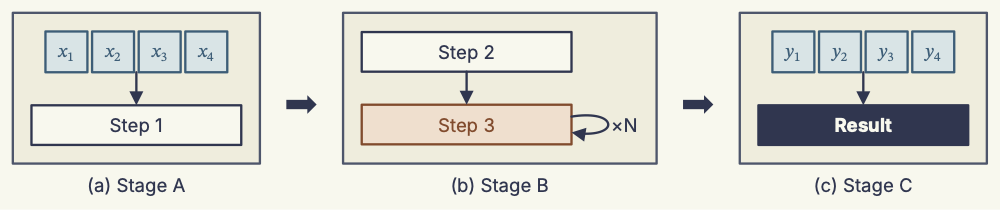
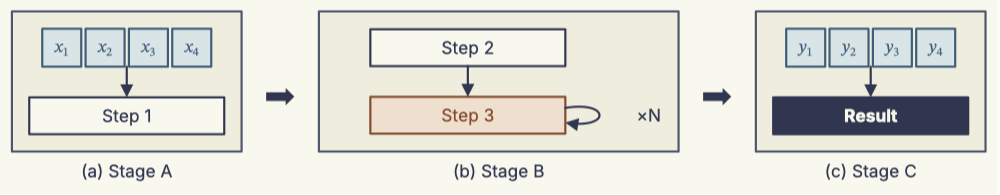
fix(layout): reserve room for curved self-loops in the structured layout (#557)
* fix(layout): reserve room for curved self-loops in the structured layout
* test(layout): cover loops on every side and fix the set check for loo…

diff --git a/src/layout/structured/self-loop-space.test.ts b/src/layout/structured/self-loop-space.test.ts
@@ -1,0 +1,233 @@
+/**
+ * Room for curved self-loops (#544) and the top padding of groups with a title
+ * above the border: a loop's bulge and label are part of its node's footprint,
+ * so neighbours and frames are placed clear of it.
+ */
+
+import { describe, expect, test } from "bun:test";
+import { stringify } from "yaml";
+import { layoutStructuredFigure } from "../index";
+import type { LayoutIR, Rect } from "../ir";
+import type { Cubic } from "../route/cubic";
+import { sampleCubic } from "../route/cubic";
+import type { TextMeasurer } from "../text";
+
+const FAKE: TextMeasurer = {
+  lineWidth: (text, _font, size) => ([...text].length * size) / 2,
+  verticalMetrics: (_font, size) => ({ ascent: 0.8 * size, descent: 0.2 * size }),
+};
+
+function lay(doc: object): LayoutIR {
+  const result = layoutStructuredFigure(stringify(doc), { measurer: FAKE });
+  if (!result.ok) throw new Error(JSON.stringify(result.diagnostics, null, 2));
+  return result.value.layout;
+}
+
+function rect(layout: LayoutIR, id: string): Rect {
+  const found =
+    layout.nodes.find((n) => n.key === `n:${id}`) ?? layout.groups.find((g) => g.key === `g:${id}`);
+  if (found === undefined) throw new Error(`no ${id}`);
+  return found.rect;
+}
+
+const box = (id: string) => ({ id, component: "box", label: id.toUpperCase() });
+const doc = (arrange: object, extra: object) => ({
+  version: 1,
+  figure: { id: "t", theme: "paper", layout: { arrange } },
+  ...extra,
+});
+const overlaps = (a: Rect, b: Rect) =>
+  a.x < b.x + b.width && b.x < a.x + a.width && a.y < b.y + b.height && b.y < a.y + a.height;
+
+/** The bounds of the curve of the first routed edge, sampled, and its label. */
+function loopBounds(layout: LayoutIR): Rect {
+  const edge = layout.edges.find((e) => e.route !== undefined);
+  const points = sampleCubic((edge?.route?.points ?? []) as Cubic);
+  const label = edge?.route?.label?.box;
+  const xs = [...points.map((p) => p.x), ...(label ? [label.x, label.x + label.width] : [])];
+  const ys = [...points.map((p) => p.y), ...(label ? [label.y, label.y + label.height] : [])];
+  return {
+    x: Math.min(...xs),
+    y: Math.min(...ys),
+    width: Math.max(...xs) - Math.min(...xs),
+    height: Math.max(...ys) - Math.min(...ys),
+  };
+}
+
+const inside = (r: Rect, frame: Rect) =>
+  r.x >= frame.x - 0.01 &&
+  r.y >= frame.y - 0.01 &&
+  r.x + r.width <= frame.x + frame.width + 0.01 &&
+  r.y + r.height <= frame.y + frame.height + 0.01;
+
+describe("a curved self-loop takes room", () => {
+  const loop = { from: "b", to: "b", route: "curve", label: "retry" };
+
+  test("keeps the node above it clear of the loop and its label", () => {
+    const layout = lay(
+      doc(
+        { stack: { gap: "2pt", items: ["a", "b"] } },
+        { nodes: [box("a"), box("b")], edges: [loop] },
+      ),
+    );
+    expect(overlaps(loopBounds(layout), rect(layout, "a"))).toBe(false);
+  });
+
+  test("opens the gap by the loop's height, and not on a node without a loop", () => {
+    const base = { nodes: [box("a"), box("b")] };
+    const arrange = { stack: { gap: "2pt", items: ["a", "b"] } };
+    const plain = lay(doc(arrange, base));
+    const looped = lay(doc(arrange, { ...base, edges: [loop] }));
+    const gap = (l: LayoutIR) => rect(l, "b").y - (rect(l, "a").y + rect(l, "a").height);
+    expect(gap(looped)).toBeGreaterThan(gap(plain));
+    expect(rect(looped, "b").height).toBe(rect(plain, "b").height);
+  });
+
+  test("keeps the loop inside the frame of its group", () => {
+    const layout = lay(
+      doc(
+        { row: { items: ["g"] } },
+        {
+          groups: [{ id: "g", arrange: { row: { items: ["b", "c"] } } }],
+          nodes: [box("b"), box("c")],
+          edges: [loop],
+        },
+      ),
+    );
+    const bounds = loopBounds(layout);
+    const frame = rect(layout, "g");
+    expect(bounds.y).toBeGreaterThanOrEqual(frame.y);
+    expect(bounds.x).toBeGreaterThanOrEqual(frame.x);
+  });
+});
+
+describe("loops on every side clear neighbours and frames", () => {
+  const sides = ["north", "east", "south", "west"] as const;
+  const loop = (side: string) => ({
+    from: "b",
+    to: "b",
+    route: "curve",
+    label: "retry",
+    fromAnchor: `${side}:0.7`,
+    toAnchor: `${side}:0.3`,
+  });
+  const nodesOf = (...ids: string[]) => ids.map(box);
+  const nodes = nodesOf("n", "s", "w", "e", "b");
+  // b in the middle of a cross, so every side has a neighbour.
+  const cross = {
+    stack: {
+      gap: "2pt",
+      items: [
+        { row: { items: ["n"] } },
+        { row: { gap: "2pt", items: ["w", "b", "e"] } },
+        { row: { items: ["s"] } },
+      ],
+    },
+  };
+
+  for (const side of sides) {
+    test(`${side}: clear of every neighbour`, () => {
+      const layout = lay(doc(cross, { nodes, edges: [loop(side)] }));
+      const bounds = loopBounds(layout);
+      for (const id of ["n", "s", "w", "e"]) expect(overlaps(bounds, rect(layout, id))).toBe(false);
+    });
+
+    test(`${side}: inside nested frames, clear of a sibling`, () => {
+      const layout = lay(
+        doc(
+          { row: { gap: "2pt", items: ["outer", "n"] } },
+          {
+            groups: [
+              {
+                id: "outer",
+                label: "Outer",
+                labelAt: "above-left",
+                arrange: { row: { items: ["inner", "e"] } },
+              },
+              { id: "inner", label: "Inner", arrange: { row: { items: ["b", "w"] } } },
+            ],
+            nodes: nodesOf("b", "w", "e", "n"),
+            edges: [loop(side)],
+          },
+        ),
+      );
+      const bounds = loopBounds(layout);
+      expect(inside(bounds, rect(layout, "inner"))).toBe(true);
+      expect(inside(bounds, rect(layout, "outer"))).toBe(true);
+      for (const id of ["w", "e", "n"]) expect(overlaps(bounds, rect(layout, id))).toBe(false);
+    });
+
+    test(`${side}: in a place box, inside its frame and clear of the node next to it`, () => {
+      const layout = lay(
+        doc(
+          {
+            place: {
+              unit: "1pt",
+              items: [
+                { item: "g", at: [0, 0] },
+                { item: "w", at: [70, 0] },
+              ],
+            },
+          },
+          {
+            groups: [{ id: "g", label: "G", labelAt: "above", arrange: { row: { items: ["b"] } } }],
+            nodes: nodesOf("b", "w"),
+            edges: [loop(side)],
+          },
+        ),
+      );
+      const bounds = loopBounds(layout);
+      expect(inside(bounds, rect(layout, "g"))).toBe(true);
+      expect(overlaps(bounds, rect(layout, "w"))).toBe(false);
+    });
+  }
+});
+
+describe("a group with a title above the border", () => {
+  const single = (labelAt?: string) => {
+    const l = lay(
+      doc(
+        { row: { items: ["g"] } },
+        {
+          groups: [
+            {
+              id: "g",
+              ...(labelAt && { label: "T", labelAt }),
+              arrange: { row: { items: ["a"] } },
+            },
+          ],
+          nodes: [box("a")],
+        },
+      ),
+    );
+    return rect(l, "a").y - rect(l, "g").y;
+  };
+  const nested = (labelAt?: string) => {
+    const group = (id: string, items: string[]) => ({
+      id,
+      ...(labelAt && { label: id, labelAt }),
+      arrange: { row: { items } },
+    });
+    const l = lay(
+      doc(
+        { row: { items: ["o"] } },
+        { groups: [group("o", ["i"]), group("i", ["a"])], nodes: [box("a")] },
+      ),
+    );
+    // The inner title hangs in the outer frame's padding; both frames' own tops are compared.
+    return { inner: rect(l, "a").y - rect(l, "i").y, outer: rect(l, "i").y - rect(l, "o").y };
+  };
+
+  test("has the top padding of an unlabelled group", () => {
+    for (const at of ["above-left", "above", "above-right"])
+      expect(single(at)).toBeCloseTo(single(undefined), 6);
+    // Inside the border the title does take a row.
+    expect(single("top-left")).toBeGreaterThan(single(undefined));
+  });
+
+  test("keeps the top padding of an unlabelled group when nested", () => {
+    const plain = nested(undefined);
+    for (const at of ["above-left", "above", "above-right"])
+      expect(nested(at).inner).toBeCloseTo(plain.inner, 6);
+  });
+});

diff --git a/src/render/self-loop.integration.test.ts b/src/render/self-loop.integration.test.ts
@@ -4,7 +4,7 @@
  */
 import { expect, test } from "bun:test";
 import { stringify } from "yaml";
-import type { Point } from "../layout/ir";
+import type { Point, Rect } from "../layout/ir";
 import { checkRoutes } from "../layout/route/check";
 import type { Cubic } from "../layout/route/cubic";
 import { lintRenderedFigure } from "../lint";
@@ -191,17 +191,37 @@ test("a loop that overflows the content moves the sets with the nodes", async ()
     });
   const plain = await render(text(false));
   const looped = await render(text(true));
-  const nodeA = (r: typeof plain) => r.layout.nodes.find((n) => n.key === "n:a")?.rect;
-  const dx = (nodeA(looped)?.x ?? 0) - (nodeA(plain)?.x ?? 0);
-  const dy = (nodeA(looped)?.y ?? 0) - (nodeA(plain)?.y ?? 0);
-  expect(dx !== 0 || dy !== 0).toBe(true); // the loop did overflow and move everything
+  const members: Record<string, string[]> = { s: ["a"], t: ["b"], u: ["a", "b"], v: ["a"] };
+  const nodeRect = (r: typeof plain, id: string) =>
+    r.layout.nodes.find((n) => n.key === `n:${id}`)?.rect as Rect;
+  const shift = (id: string) => ({
+    dx: nodeRect(looped, id).x - nodeRect(plain, id).x,
+    dy: nodeRect(looped, id).y - nodeRect(plain, id).y,
+  });
+  const a = shift("a");
+  expect(a.dx !== 0 || a.dy !== 0).toBe(true); // the loop did overflow and move things
   for (const set of plain.layout.sets ?? []) {
     const moved = looped.layout.sets?.find((s) => s.id === set.id);
-    expect(moved?.rect.x).toBeCloseTo(set.rect.x + dx, 1);
-    expect(moved?.rect.y).toBeCloseTo(set.rect.y + dy, 1);
-    if (set.label !== undefined) {
-      expect(moved?.label?.anchor.x).toBeCloseTo(set.label.anchor.x + dx, 1);
-      expect(moved?.label?.anchor.y).toBeCloseTo(set.label.anchor.y + dy, 1);
+    const own = members[set.id] ?? [];
+    if (own.length === 1) {
+      // A set with one member moves with that member, whichever way it went.
+      const { dx, dy } = shift(own[0] as string);
+      expect(moved?.rect.x).toBeCloseTo(set.rect.x + dx, 1);
+      expect(moved?.rect.y).toBeCloseTo(set.rect.y + dy, 1);
+      if (set.label !== undefined) {
+        expect(moved?.label?.anchor.x).toBeCloseTo(set.label.anchor.x + dx, 1);
+        expect(moved?.label?.anchor.y).toBeCloseTo(set.label.anchor.y + dy, 1);
+      }
+    } else {
+      // A shared set is fitted again: it still encloses all its members.
+      const r = moved?.rect as Rect;
+      for (const id of own) {
+        const m = nodeRect(looped, id);
+        expect(r.x).toBeLessThanOrEqual(m.x + 0.01);
+        expect(r.y).toBeLessThanOrEqual(m.y + 0.01);
+        expect(r.x + r.width).toBeGreaterThanOrEqual(m.x + m.width - 0.01);
+        expect(r.y + r.height).toBeGreaterThanOrEqual(m.y + m.height - 0.01);
+      }
     }
   }
 });

diff --git a/src/layout/structured/engine.ts b/src/layout/structured/engine.ts
@@ -72,7 +72,10 @@ import {
   type TextLayout,
   type TextMetrics,
 } from "../ir";
+import { sampleCubic } from "../route/cubic";
+import { curveLabel, loopLabelEdge, selfLoopAnchors, selfLoopPoints } from "../route/curve";
 import { arrowheadPaddingDeficits, type SidePadding } from "../route/padding";
+import { anchorPoint, isJunction } from "../route/ports";
 import { captionGap, fontSetMeasurer, measureText, type TextMeasurer } from "../text";
 import {
   type AlignLimits,
@@ -1097,7 +1100,50 @@ class StructuredLayout {
    */
   #decorations(node: NodeIR, body: Rect): Rect[] {
     const caption = this.#captionRect(node, body);
-    return [...decorationRects(node, body), ...(caption === undefined ? [] : [caption])];
+    return [
+      ...decorationRects(node, body),
+      ...(caption === undefined ? [] : [caption]),
+      ...this.#loopRects(node, body),
+    ];
+  }
+
+  /**
+   * The room a curved self-loop (#544, `route: curve` from a node to itself,
+   * #519) takes outside its node, with its label: the bounds of the loop as the
+   * router draws it from the body's side anchors, so a neighbour or a frame is
+   * placed clear of it like of a badge.
+   */
+  #loopRects(node: NodeIR, body: Rect): Rect[] {
+    if (isJunction(node)) return [];
+    const rects: Rect[] = [];
+    for (const edge of this.#ir.edges) {
+      if (edge.route !== "curve" || edge.from !== node.key || edge.to !== node.key) continue;
+      const anchors = selfLoopAnchors(edge);
+      if (typeof anchors === "string") continue; // the router reports it
+      const a = anchorPoint(body, anchors.from);
+      const b = anchorPoint(body, anchors.to);
+      if (a.x === b.x && a.y === b.y) continue;
+      const points = selfLoopPoints(edge, a, b, anchors.from.side);
+      const samples = sampleCubic(points);
+      let x0 = Number.POSITIVE_INFINITY;
+      let y0 = Number.POSITIVE_INFINITY;
+      let x1 = Number.NEGATIVE_INFINITY;
+      let y1 = Number.NEGATIVE_INFINITY;
+      const grow = (x: number, y: number, x2 = x, y2 = y) => {
+        x0 = Math.min(x0, x);
+        y0 = Math.min(y0, y);
+        x1 = Math.max(x1, x2);
+        y1 = Math.max(y1, y2);
+      };
+      for (const q of samples) grow(q.x, q.y);
+      const metrics = measureText(edge.label, edge.style, this.#measurer);
+      if (metrics !== undefined) {
+        const { box } = curveLabel(metrics, points, loopLabelEdge(edge, a, b, anchors.from.side));
+        grow(box.x, box.y, box.x + box.width, box.y + box.height);
+      }
+      rects.push({ x: x0, y: y0, width: x1 - x0, height: y1 - y0 });
+    }
+    return rects;
   }
 
   /** The box of a node's caption below its frame (#491), `body` being the frame. */

diff --git a/docs/design/decisions/544-self-loop-space.md b/docs/design/decisions/544-self-loop-space.md
@@ -1,0 +1,6 @@
+# #544 曲線の自己ループの場所と、枠の上の見出しの余白
+
+- **背景**: #539 のレイアウトを描く中で、`labelAt: above-left` の見出しと中身の間に約 13mm の隙間が出ること、`route: curve` の自己ループが配置の場所を取らず隣や枠に当たることが記録された（#538 のレポート）。
+- **決定（自己ループ）**: 構造化エンジンが、ノードの付属の場所（バッジ、キャプションと同じ張り出し）に、曲線の自己ループの外接矩形とラベルの箱を含める。ルーターと同じ関数（`selfLoopAnchors`、`selfLoopPoints`、`curveLabel`、`loopLabelEdge`）で本体の辺のアンカーから描くので、描画と確保する場所が食い違わない。ノードの本体の大きさと `place` の `at`（葉は本体の中心）は変わらず、隣の要素、枠の内側の余白、キャンバスだけが膨らみに合わせて広がる。円や菱形は外接矩形の辺から描くため、輪郭へ射影するルーターの実際のループより少し大きく見積もる（隣との間隔が足りないより安全側）。
+- **決定（見出し）**: 仕様どおり、変更なし。`above-*` の見出しは枠の内側に行を取らず、枠の上端から最初の中身までの余白は見出しなしのグループと同じ（paper-double / sumi で 16 単位 = 約 2.8mm。単独、入れ子、`place`、行の中で確認し、テストで固定）。見出しは枠の外の張り出し（見出しの高さ 約 22 単位 + 余白の半分 8 単位 = 約 30 単位、約 5.3mm）として親の配置に入り、見出しと枠の間は 8 単位（約 1.4mm）。入れ子では子の見出しが親の枠の余白の中に入るので、親の枠の上端から子の枠までは 余白 + 張り出し = 約 46 単位（約 8mm）になる。この外側の場所を内側の隙間と見間違えた可能性が高く、13mm の隙間は再現しなかった。
+- **互換性**: 自己ループのない図は変わらない。ピン留めの再現と gallery の例は変わらず、Skill の基本レイアウトでは `three-panel-flow`（東側のループがパネルの外へはみ出していた）だけが少し広がった。
